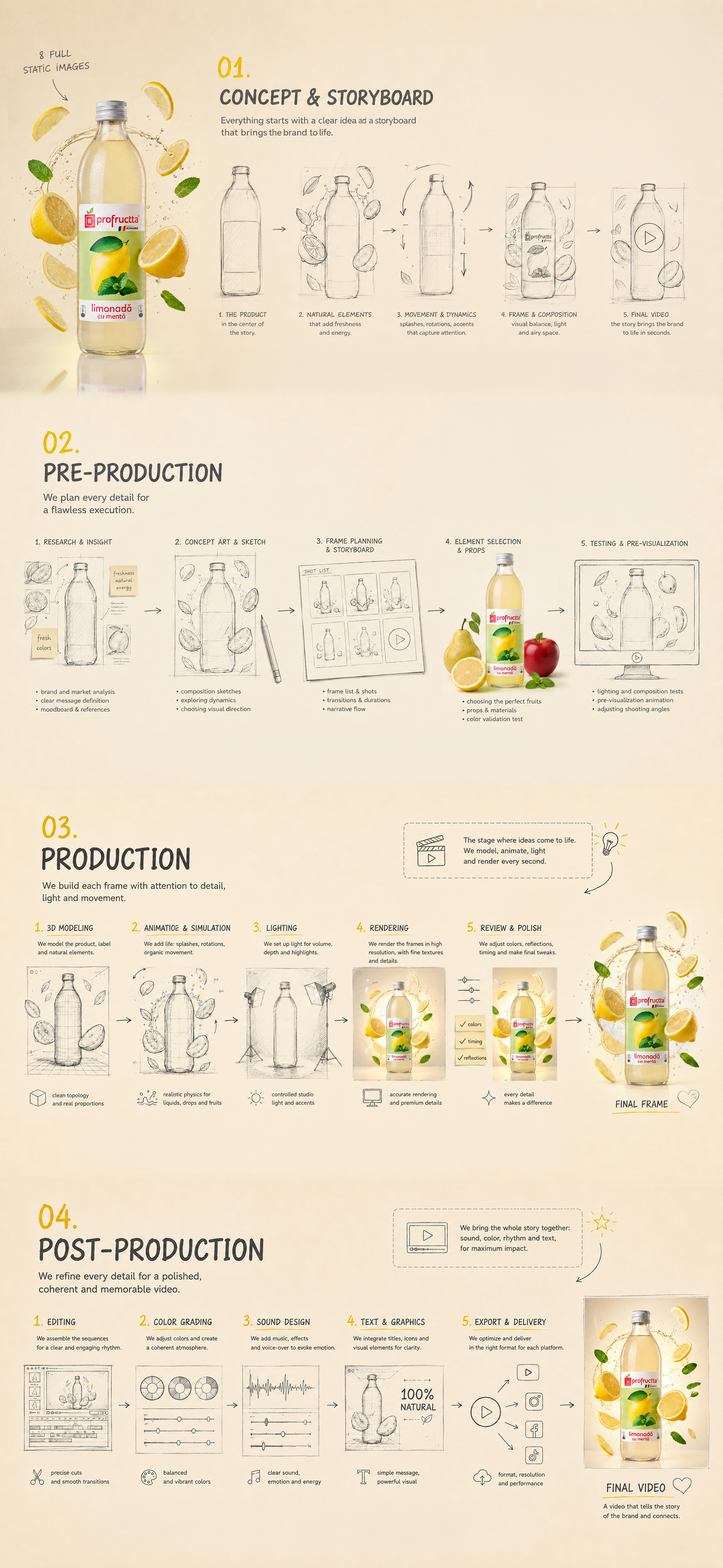
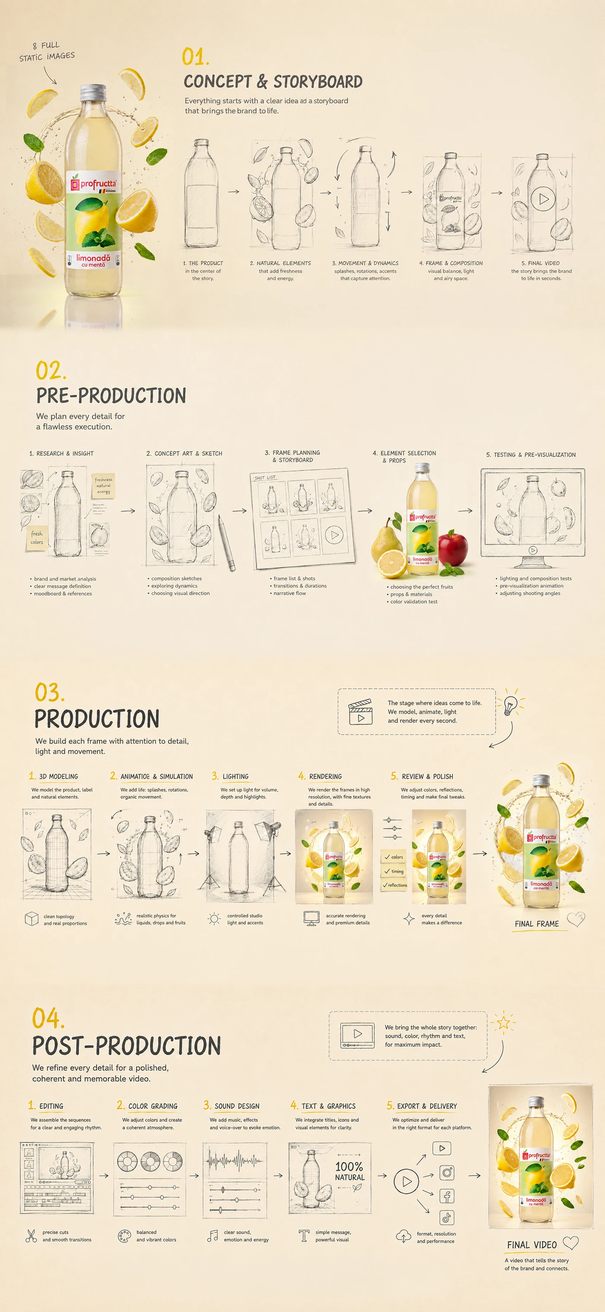
perf: batch optimize all images & remove hero cover in modal details

diff --git a/src/main.js b/src/main.js
@@ -540,11 +540,6 @@ function initProjectOverlay() {
   function openProject(project) {
     let html = '';
 
-    // Hero image (official cover photo)
-    if (project.cover) {
-      html += `<div class="project-detail-hero"><img src="${project.cover}" alt="${project.title}" /></div>`;
-    }
-
     // Header
     html += `
       <div class="project-detail-header">
